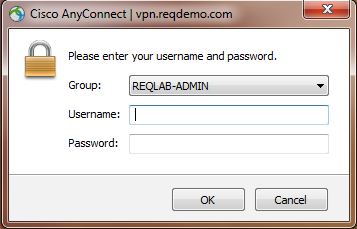
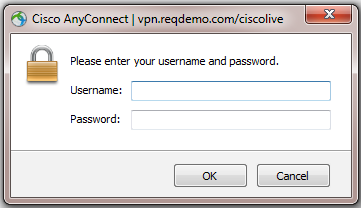
Lots of canges to lab/templates

diff --git a/lab/templates/hx/mb.html b/lab/templates/hx/mb.html
@@ -34,7 +34,9 @@ Step {% set step = step +  1 %}
 <img src="/core/static/images/symbols/ssh_pointer.png" style="height:20px;" >
 </a
 </p>
-<p>To save time, we will be using a script to quickly install the App Profile</p>
+<p>Storage Classes allows us to describe various "classes" of storage in kubernetes. Different classes
+   might map to quality-of-service levels, or to backup policies, or to arbitrary policies
+   determined by the cluster administrators</p>
 <div class="fancy-terminal">
 <pre class="command-line language-bash" data-prompt="{{ data.master_prompt}}">
 <code class="language-bash">
@@ -44,6 +46,10 @@ kubectl get sc
 </div>
 <br>
 <p>Let's also look for any Persistent Volume Claims</p>
+<p>A PersistentVolumeClaim (PVC) is a request for storage by a user. It is similar to a Pod.
+  Pods consume node resources and PVCs consume PV resources. Pods can request specific levels
+   of resources (CPU and Memory). Claims can request specific size and access modes
+   (e.g., they can be mounted once read/write or many times read-only).</p>
 <div class="fancy-terminal">
 <pre class="command-line language-bash" data-prompt="{{ data.master_prompt}}">
 <code class="language-bash">
@@ -58,7 +64,7 @@ kubectl get pvc
 Step {% set step = step +  1 %}
 ##############################################################################################################################
 -->
-<h3>Step {{ step }} - Download the MB application files from github</h3>
+<h3>Step {{ step }} - Download the messageboard application files from github</h3>
 <div class="fancy-terminal">
 <pre class="command-line language-bash" data-prompt="{{ data.master_prompt}}">
 <code class="language-bash">
@@ -86,6 +92,11 @@ Step {% set step = step +  1 %}
 </pre>
 </div>
 <br>
+<p>When you create an object in Kubernetes, you must provide the object spec that describes its desired state,
+   as well as some basic information about the object (such as a name). When you use the Kubernetes API to
+   create the object (either directly or via kubectl), that API request must include that information as
+   JSON in the request body. Most often, you provide the information to kubectl in a .yaml file.
+   kubectl converts the information to JSON when making the API request.</p>
 <!--
 ##############################################################################################################################
 Step {% set step = step +  1 %}

diff --git a/lab/templates/finished.html b/lab/templates/finished.html
@@ -10,32 +10,32 @@
     have picked to spend with us it have been valuable to you.
 </p>
 <p>
-    The web based lab guide is available to you from anywhere on the internet. You can share it with
-    colleagues and friends.
+    Please fill out your surveys! You lab guide is available here for reference:
 </p>
 <div style="font-size:34px;text-align: center">
-    <a href="http://aci-k8s-lab.ciscolive.com" target="_blank">http://aci-k8s-lab.ciscolive.com</a>
+    <a href="http://livelab.reqdemo.com" target="_blank">http://livelab.reqdemo.com</a>
 </div>
-<p>
-    We have also included additional Reference sections that you can read containing material you
-    you may find interesting.
-</p>
+
 <div class="row" style="margin-top:50px;">
     <div class="col-sm-6 col-xs-12">
         <h1>Complete your session evaluation!</h1>
-        <ul style="font-size:28px;">
+        <br>
+        <ul style="font-size:20px;">
             <li>
                 Give us your feedback to be entered into a Daily Survey Drawing.
             </li>
             <li>
                 Complete your session surveys through the Cisco Live mobile app or
-                on <a href="http://ciscolive.com/us">www.ciscolive.com/us</a>
+                on <a href="http://ciscolive.com/emea.html">www.ciscolive.com/emea</a>
             </li>
             <li>
                 Don’t forget: Cisco Live sessions will be available for viewing on demand
                 after the event at <a href="http://ciscolive.com/online">www.ciscolive.com/online</a>.
             </li>
         </ul>
+        <br>
+        <br><br><br>
+        <h4> Continue to the Bonus Lab for docker and docker-compose</h4>
     </div>
     <div class="col-sm-6 col-xs-12">
         <img src="/lab/static/images/market/finished-session-eval.png" class="img-responsive">

diff --git a/lab/templates/podlanding.html b/lab/templates/podlanding.html
@@ -27,29 +27,30 @@
     <ul>
         <li>Overview of the platform, components, features etc.
         </li>
-        <li>Deploying a Tenant integrated with ACI
+        <li>Deploying a tenant cluster integrated with ACI
         </li>
     </ul>
     <li>Deploying an Application on CCP</li>
     <ul>
-        <li>Prometheus Agents</li>
-        <li>Build Grafana Dashboards</li>
+        <li>Deploy a microservices based Appilcation</li>
+        <li>ACI contracts between Kubernetes and Bare Metal/VM</li>
     </ul>
-    <li>View Logging metrics in Kibana</li>
+    <li>Deploy and manage HX Persistent Storage</li>
     <ul>
-        <li>In this section, you will learn how to expose ingress for Kibana
+        <li>Deploy a storage integrated Application
+        </li>
+        <li>Manage/upgrade the Application
         </li>
     </ul>
-    <li>Building Security Policy in ACI for Kubernetes</li>
+    <li>BONUS Lab Seciton: Docker, and Docker-compose</li>
     <ul>
-        <li>In this section of the lab, you will understand how to manage annotations and use them to build a micro segmented container platform
+        <li>This section will walk you through a deep-dive on docker
+        </li>
+        <li>You will also learn about container networking
         </li>
 
     </ul>
-    <li>Deploy Persistent Volume App</li>
-    <ul>
-        Here you will deploy an application and upgrade the version of it and examine the Persistent storage aspects of Cisco Hyperflex.
-    </ul>
+
 </ul>
 <p>
     Any questions please reach out to the proctors. We are here to help and provide

diff --git a/lab/templates/podaccess.html b/lab/templates/podaccess.html
@@ -23,8 +23,9 @@ Step {% set step = step +  1 %}
 <h3>Step {{ step }} - Launch Cisco VPN mobility client</h3>
 <p>
     The Lab pods are only accessible via vpn due it's location with the DMZ
-    <br>Type in "vpn.reqdemo.com" and click connect
+    <br>Type or copy/paste from below "vpn.reqdemo.com/ciscolive" and click connect
 </p>
+<p>{{copythis('vpn.reqdemo.com/ciscolive')}}</p>
 <img src="/lab/imgman/pod/{{ data.pod_id }}/id/1" class="img-responsive img-shadow"><br />
 
 
@@ -33,23 +34,9 @@ Step {% set step = step +  1 %}
 Step {% set step = step +  1 %}
 ##############################################################################################################################
 -->
-<h3>Step {{ step }} - Invalid Cert Warning</h3>
+<h3>Step {{ step }} - Enter VPN username and password</h3>
 
 <p>
-    Please ignore the Cert warning and click on 'Connect Anyway' button
-</p>
-<img src="/lab/imgman/pod/{{ data.pod_id }}/id/2" class="img-responsive img-shadow"><br />
-
-
-<!--
-##############################################################################################################################
-Step {% set step = step +  1 %}
-##############################################################################################################################
--->
-<h3>Step {{ step }} - Connect using REQLAB-ADMIN group</h3>
-
-<p>
-    Chose 'REQLAB-ADMIN' in the group from the drop down menu
     <br>Type in your username as shown
     <br>Type in your password as shown
 </p>

diff --git a/lab/templates/conclusion.html b/lab/templates/conclusion.html
@@ -35,12 +35,12 @@
     platforms, like googles own cloud.
 </p>
 <p>
-    The hard part comes how do you manage policy in a network that has entities that
-    are stateless and are created or deleted in seconds. You can adopt a policy of
-    laissez-faire but that can lead to dangerous consequences in the security space.
+    The hard part comes on how do you manage policy in a network that has entities that
+    are stateless and are created or deleted in seconds, and sometimes extend to the public cloud.
+    You can adopt a policy of laissez-faire but that can lead to dangerous consequences in the security space.
 </p>
 <p>
-    We in Cisco believe in the following:
+    We at Cisco believe in the following:
 </p>
 <img src="/lab/static/images/aci_value/aci_value_1.png" class="img-responsive" style="margin:0 auto; margin-top:40px; margin-bottom:40px;">
 <p>
@@ -49,6 +49,8 @@
     the ability to create a private cloud for micro-services that uses the same technology as google
     uses to run the biggest cloud in the world.
 </p>
-
+<p>HyperFlex provides the perfect infrastructure to run your containers allowing for carefree deployment
+models for IT staff. Together with our cloud based management softare "Inersight", we enable our customers
+to build a multi-cloud policy orchestrated sofrware defined datacenter which is simple to deploy and manage.</p>
 {{ end_of_page(page_position,data) }}
 {% endblock %}

diff --git a/lab/templates/app/k8s.html b/lab/templates/app/k8s.html
@@ -11,28 +11,17 @@
 </div>
 
 
-<!--
-##############################################################################################################################
-Step {% set step = step +  1 %}
-##############################################################################################################################
--->
-<h3>Step {{ step }} - Removing the tenant you created </h3>
+<h3>Under Constrution - Section reserved for  Kuberntes Annotations </h3>
 
-    <p>Click on 'Tenants', and then 'ALL Tenants'
-</p>
-<p>Click to higlight the tenant you created - '{{data.apic_stdnt_uname}}' </p>
-<img src="/lab/imgman/pod/{{ data.pod_id }}/id/7" class="img-responsive img-shadow ">
 
 <!--
 ##############################################################################################################################
 Step {% set step = step +  1 %}
 ##############################################################################################################################
 -->
-<h3>Step {{ step }} - Click on the 'hammer & wrench' icon</h3>
+<h3>Step {{ step }} - Please proceed to the next Secion</h3>
 
-<p>Click Delete <b>making sure that you are deleting your own tenant</b></p>
-<img src="/lab/static/images/aci1/step6.png" class="img-responsive img-shadow">
-<p>Click'YES' to confirm</p>
+
 
 {{ end_of_page(page_position,data) }}
 {% endblock %}

diff --git a/lab/templates/app/apic.html b/lab/templates/app/apic.html
@@ -47,7 +47,7 @@ Step {% set step = step +  1 %}
 <h3>Step {{ step }} - Examine the changes in APIC</h3>
 <p>
 Take notice that we have deployed three new EPGs (Collector, api, and frontend) and contracts between them
-
+</p>
 <img src="/lab/static/images/ccp/lwall2.png" class="img-responsive img-shadow">
 <!--
 ##############################################################################################################################
@@ -74,7 +74,7 @@ Step {% set step = step +  1 %}
 ##############################################################################################################################
 -->
 <h3>Step {{ step }} - Log back into ACI, open Operational tab under livewall app EPGs</h3>
-<b>Notice anything different?</b><p></p>
+<p><b>Notice anything different?</b></p>
 <img src="/lab/static/images/ccp/lwall4.png" class="img-responsive img-shadow">
 <!--
 ##############################################################################################################################
